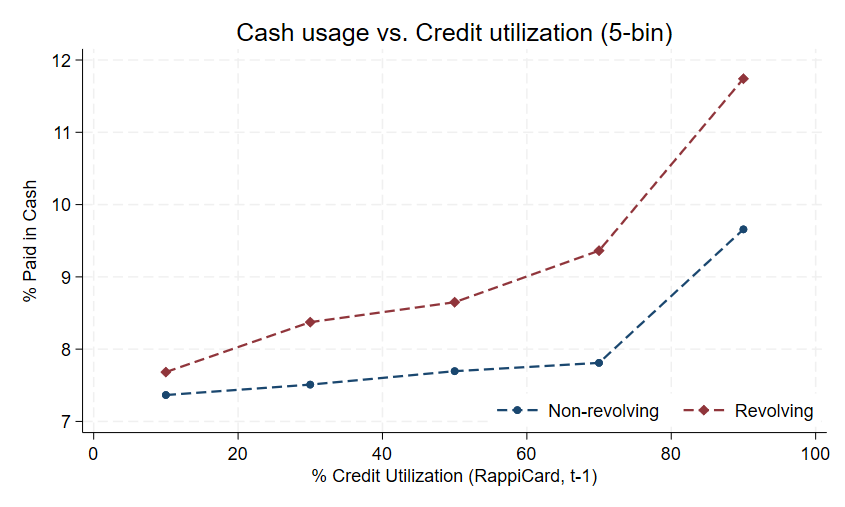
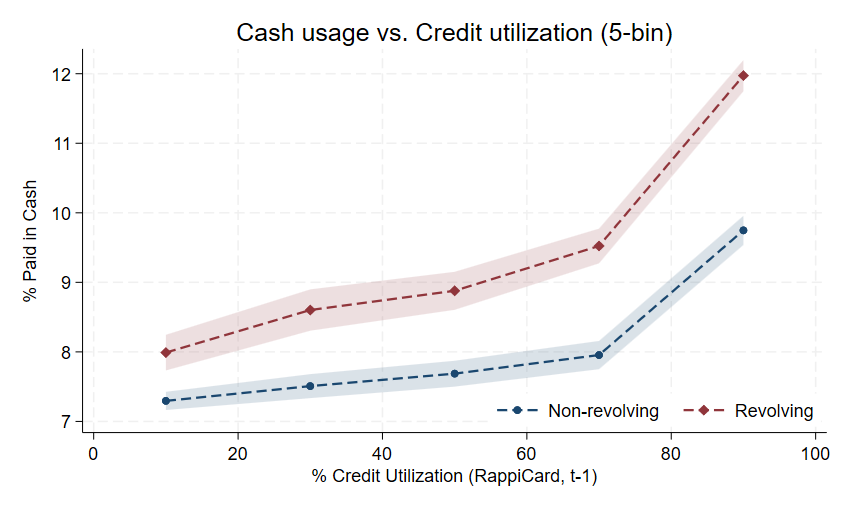
Add WMP figure and best paper award, refine research page styling
- Add wmp.png figure to the Riding the Waves working paper, replacing
  the "Figure coming soon" placeholder
- Add Best Paper Award line (8th Asia Conference on Business and
  Economic Studies) above the conference-presentation note
- Widen research figures from 320px to 352px (+10%)
- Make the conference note larger (0.85rem -> 0.95rem) and darker,
  using --global-text-color so it stays legible in dark mode
- Update ewa.png and shadow_cost.png figures and paper abstracts

Claude-Session: https://claude.ai/code/session_011QGyZePaCmj77vLMjEToRG

diff --git a/_pages/research.md b/_pages/research.md
@@ -15,7 +15,7 @@ nav_order: 1
     flex-wrap: wrap;
   }
   .research-text { flex: 1 1 340px; min-width: 280px; }
-  .research-fig { flex: 0 0 320px; max-width: 320px; }
+  .research-fig { flex: 0 0 352px; max-width: 352px; }
   .research-fig img,
   .research-fig .fig-placeholder {
     width: 100%;
@@ -35,7 +35,14 @@ nav_order: 1
   }
   .research-item h3 { margin-bottom: 0.25rem; font-size: 1.1rem; color: var(--global-theme-color, #1772d0); }
   .research-authors { margin-bottom: 0.35rem; }
-  .research-note { font-size: 0.85rem; color: #777; font-style: italic; margin-bottom: 0.4rem; }
+  .research-note { font-size: 0.95rem; color: var(--global-text-color, #333); font-style: italic; margin-bottom: 0.4rem; }
+  .research-award {
+    font-size: 1rem;
+    font-weight: 700;
+    color: var(--global-theme-color, #00356b);
+    margin-bottom: 0.3rem;
+  }
+  .research-award i { margin-right: 0.35rem; }
   .jmp-badge {
     display: inline-block;
     font-size: 0.7rem;
@@ -84,7 +91,7 @@ nav_order: 1
     <div class="research-authors">with Jose Murillo</div>
     <details class="abstract">
       <summary>Abstract</summary>
-      <p>Why do credit card holders forfeit financial rewards to pay with physical cash on frictionless digital platforms? Using a novel transaction-level dataset linking real-time credit constraints to point-of-sale payment choices on a major Mexican delivery app, we document that proximity to the credit limit is the dominant driver of cash usage. For households with revolving credit card debt, the propensity to pay in cash exhibits a level shift and increases convexly as credit utilization grows. Exploiting quasi-experimental variation from bank-initiated credit limit increases (CLIs), we establish causality: exogenous expansions in credit capacity sharply reduce cash usage, with effects concentrated among highly utilized revolvers. We rationalize these findings through a conceptual framework where the marginal value of preserving future borrowing capacity against uninsurable shocks exceeds the convenience and reward benefits of card payments. Ultimately, our results reframe cash not as a friction, but as an active liquidity management tool for credit-constrained households, offering a novel transaction-level resolution to the co-holding puzzle.</p>
+      <p>We study the effect of a household's credit capacity on its preference for credit or cash payments, and what that choice reveals about the shadow cost of credit. By analyzing 1.5 million consumption records linked to each household's real-time credit position, we find that the same household uses more cash as its credit utilization rises, exhibiting a convex pattern. This convexity is consistent with a precautionary mechanism: the marginal value of available credit rises as capacity shrinks, leading to a convex rise in the cost of credit for all households. Households with existing balances incur additional interest costs, prompting them to choose cash more frequently at every level of utilization. Bank-initiated increases in credit limits, which expand headroom without affecting the balance, causally reduce cash usage.  Consequently, payment choice, when observed alongside the credit position at a transaction level, serves as a direct measure of the shadow cost of drawing down borrowing capacity.</p>
     </details>
   </div>
   <div class="research-fig">
@@ -99,7 +106,7 @@ nav_order: 1
     <div class="research-note">Selected for the 2023 NBER Innovative Data in Household Finance, MFA 2026, and SGF 2026</div>
     <details class="abstract">
       <summary>Abstract</summary>
-      <p>We study the adoption and welfare implications of earned wage access (EWA) — an innovative financial product increasingly offered by firms as an employee benefit — using novel administrative and survey data from a Mexican FinTech provider. We document substantial uptake, with usage concentrated near the end of the pay cycle. Adoption is associated with higher retention among lower-rank workers, consistent with welfare gains for financially constrained employees. Survey evidence points to liquidity insurance and consumption smoothing as key drivers of demand. To rationalize these findings, we develop a simple framework incorporating these motives alongside present bias. The model predicts that EWA can generate meaningful welfare gains for workers, particularly those with present-biased preferences, and characterizes the conditions under which adoption is most beneficial.</p>
+      <p>We study the usage and welfare implications of earned wage access (EWA) using administrative and survey data from a Mexican FinTech provider. Adoption is significant, and usage concentrates at the end of the pay cycle. We develop a stationary buffer-stock framework, calibrated to the data, in which EWA provides liquidity insurance and consumption-timing alignment. Access is worth about 2.5\% of a paycheck per year for the average user, and an order of magnitude more for impatient, low-liquidity workers. Automatic repayment makes these gains more robust to present bias than with revolving credit. EWA usage is associated with higher employee retention, as the framework implies.</p>
     </details>
     <div class="research-links">
       <a href="https://ssrn.com/abstract=4067701" target="_blank" rel="noopener noreferrer"><i class="fa-solid fa-file-lines"></i> SSRN</a>
@@ -114,6 +121,7 @@ nav_order: 1
   <div class="research-text">
     <h3>Riding the Waves: Geographic Diversification and Bank Responses to Local Funding Shocks</h3>
     <div class="research-authors">with Wei Li and Mingmei Liu</div>
+    <div class="research-award"><i class="fa-solid fa-trophy"></i>Best Paper Award, The 8th Asia Conference on Business and Economic Studies</div>
     <div class="research-note">Selected for the 2025 EWMES and 2025 Sydney Banking and Financial Stability Conference</div>
     <details class="abstract">
       <summary>Abstract</summary>
@@ -121,7 +129,7 @@ nav_order: 1
     </details>
   </div>
   <div class="research-fig">
-    <div class="fig-placeholder">Figure coming soon</div>
+    <img src="{{ '/assets/img/papers/wmp.png' | relative_url }}" alt="Riding the Waves — key figure">
   </div>
 </div>
 
